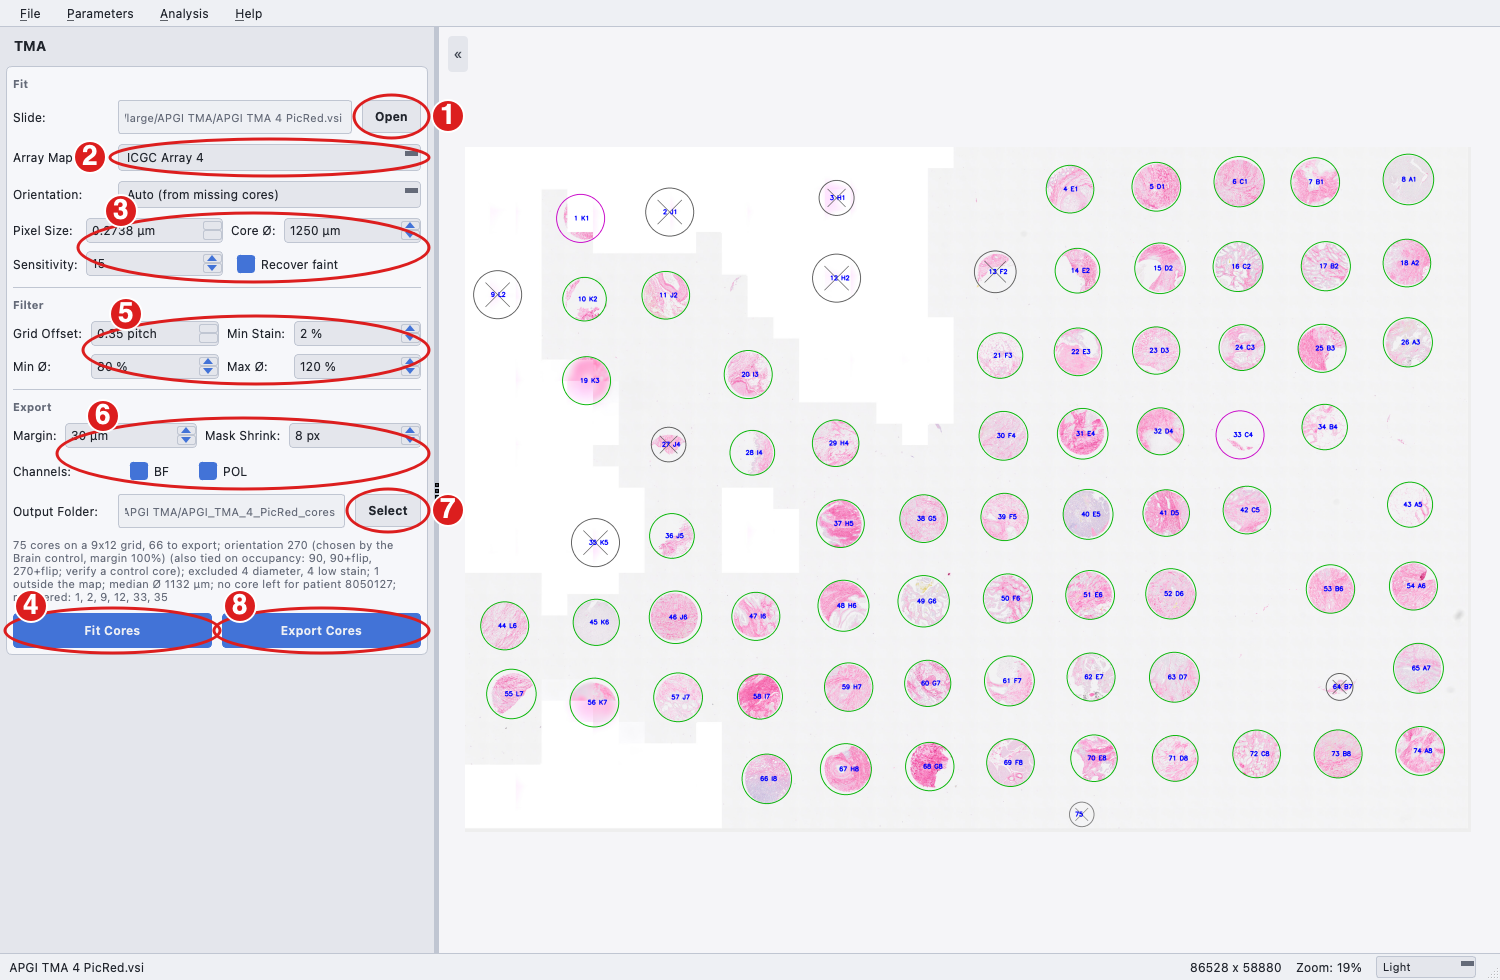
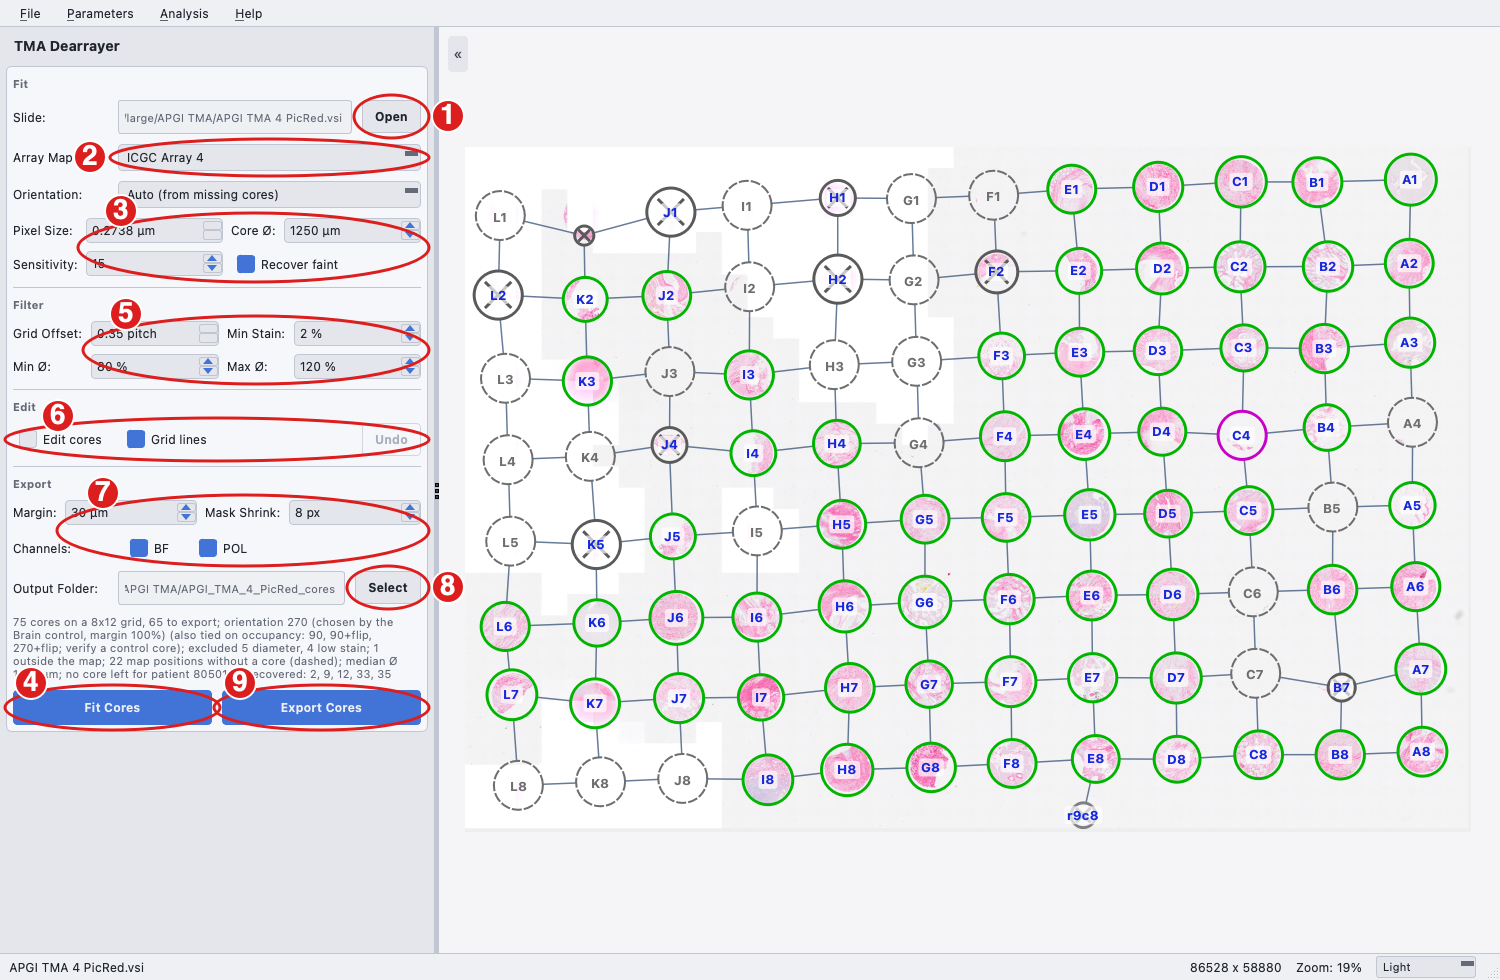
Document the TMA Dearrayer editing workflow and refresh its screenshot

diff --git a/docs/make_screenshots.py b/docs/make_screenshots.py
@@ -236,9 +236,10 @@ def main(argv):
                 (3, union(win, (win.tma_core_diameter_spin, win.tma_sat_spin, win.tma_recover_cb))),
                 (4, rect_of(win, win.tma_fit_btn)),
                 (5, union(win, (win.tma_offset_spin, win.tma_stain_spin, win.tma_dmin_spin, win.tma_dmax_spin))),
-                (6, union(win, (win.tma_margin_spin, win.tma_erode_spin, *win.tma_channel_cbs.values()))),
-                (7, rect_of(win, win.tma_output_btn), "right"),
-                (8, rect_of(win, win.tma_export_btn)),
+                (6, union(win, (win.tma_edit_cb, win.tma_links_cb, win.tma_undo_btn))),
+                (7, union(win, (win.tma_margin_spin, win.tma_erode_spin, *win.tma_channel_cbs.values()))),
+                (8, rect_of(win, win.tma_output_btn), "right"),
+                (9, rect_of(win, win.tma_export_btn)),
             ])
 
 

diff --git a/docs/source/tma.md b/docs/source/tma.md
@@ -1,8 +1,8 @@
-# Tissue Micro-Array (TMA) Preprocessing
+# TMA Dearrayer
 
 Cabana can turn a whole-slide scan of a tissue micro-array into one image and
 one binary mask per core, named by patient, ready for batch analysis. The
-step lives on the **TMA** page of the GUI and in the `cabana-tma` command.
+step lives on the **TMA Dearrayer** page of the GUI and in the `cabana-tma` command.
 
 ## What it does
 
@@ -18,27 +18,34 @@ step lives on the **TMA** page of the GUI and in the `cabana-tma` command.
    bundled). A numbered overlay is shown: green circles will be exported,
    purple were recovered at empty grid positions (also exported), grey with a
    cross were excluded by the quality filters, and grey lie outside the printed
-   map; neither grey kind is exported.
+   map; neither grey kind is exported. Thin lines join cores in neighbouring
+   grid cells, dashed circles mark map positions that hold no core, and
+   control cores carry their tissue name so the orientation can be checked at
+   a glance; the lines reach the dashed circles too, so the lattice stays
+visible across gaps. Circles can be corrected by hand (see
+   [Editing cores by hand](#editing-cores-by-hand)).
 3. **Export cores**: for every core and selected channel a square crop is
    written to `<channel>/<group>/Images/` and a circular mask (white inside the
    fitted circle, shrunk by *Mask Shrink*, black in the corners) to
    `<channel>/<group>/Masks/`. Channels are `BF` and `POL`; groups are
    `Patients`, `Controls` (Liver, Brain, … from the map) and `Unmapped` (cores
    without a map entry, e.g. when no array map is chosen). A `cores.csv`
-   manifest and `overlay.png` are written alongside.
+   manifest, `overlay.png` and `cores_edits.json` (the cores as exported,
+   so hand edits can be reinstated later) are written alongside.
 
 The three stages run independently: fitting can be repeated with new settings
 before exporting, and exporting can be repeated into a different folder.
 
-## The TMA page
+## The TMA Dearrayer page
 
-![TMA page after fitting APGI TMA 4](media/tma.png)
+![TMA Dearrayer page after fitting APGI TMA 4](media/tma.png)
 
 1. **Open** the slide (`.vsi`, or a whole-slide TIFF/PNG, in which case enter the
    pixel size). A preview appears in the viewer.
 2. **Array Map.** Choose the printed ICGC/APGI array (1 to 8) for patient IDs,
    or *None* to name cores by grid position only. Leave **Orientation** on
    *Auto* unless you need to force one (see [Orientation](#orientation)).
+   Changing either after a fit relabels the cores instantly; no refit.
 3. **Fit settings.** *Core Ø* is the nominal core diameter and sets the scale
    of every step; *Sensitivity* is the tissue threshold; *Recover faint* looks
    for pale cores at empty grid positions.
@@ -47,13 +54,16 @@ before exporting, and exporting can be repeated into a different folder.
    summarises the fit and any warnings.
 5. **Filter.** Quality gates applied after fitting; they update the overlay
    instantly without a refit (see [Quality filters](#quality-filters)).
-6. **Export settings.** *Margin* around each circle, *Mask Shrink*, and the
+6. **Edit.** *Edit cores* turns on hand correction of the circles on the
+   overlay, *Grid lines* shows or hides the lattice and *Undo* reverts the
+   last edit (see [Editing cores by hand](#editing-cores-by-hand)).
+7. **Export settings.** *Margin* around each circle, *Mask Shrink*, and the
    channels (BF, POL) to write.
-7. **Output Folder** for the export (defaults to `<slide>_cores` beside the
+8. **Output Folder** for the export (defaults to `<slide>_cores` beside the
    slide).
-8. **Export Cores** writes the images, masks, `cores.csv` and `overlay.png`.
-   When it finishes you are offered to point **Batch Run** at the exported
-   Patients folder of a channel.
+9. **Export Cores** writes the images, masks, `cores.csv`, `overlay.png` and
+   `cores_edits.json`. When it finishes you are offered to point **Batch
+   Run** at the exported Patients folder of a channel.
 
 ## How core fitting works and how to tune it
 
@@ -80,8 +90,14 @@ before exporting, and exporting can be repeated into a different folder.
    radius are therefore rebuilt from the largest tissue piece (split at thin
    attachments if it is itself too large), adding neighbouring pieces nearest
    first only while the circle stays within that size.
-4. **Grid.** Circle centres are snapped to a lattice whose pitch is the
-   median neighbour distance. Circles falling in one cell are merged largest
+4. **Grid.** The slide's rotation is estimated from the median angle between
+   horizontally adjacent cores and removed, so a tilted array (the APGI
+   slides are tilted by up to 3°) does not smear one row into the next.
+   Circle centres are then snapped to a lattice whose pitch and phase come
+   from the well-formed circles only (fill at least 30 %, radius within 20 %
+   of the median), so fragments and debris cannot shift the grid. Debris that
+   is both malformed and off the lattice is kept but does not widen the grid.
+   Circles falling in one cell are merged largest
    first, and a smaller one is only merged if the result stays within 110 % of
    the typical core radius, so a debris speck in the same cell is dropped
    rather than enlarging the core.
@@ -131,6 +147,47 @@ smaller circle; lower Min Ø (for example to 70 %) to keep them.
 CLI: `--max-grid-offset`, `--diameter-range MIN MAX`, `--min-stain`, and
 `--stain-sat` (the saturation threshold, 40, not exposed in the GUI).
 
+## Editing cores by hand
+
+The fit is right on the APGI slides, but a partial core excluded by the
+diameter filter, a circle inflated by a neighbouring fragment, or a pale core
+the recovery pass missed are quicker to fix by hand than by retuning. Tick
+**Edit cores** and work on the overlay:
+
+| Gesture | Effect |
+|---|---|
+| Click a circle | Select it (yellow dashed halo; its colour keeps showing its status) |
+| Drag inside a circle | Move the core |
+| Drag the rim, the yellow handle, or Shift+drag inside | Resize the core |
+| Double-click a circle | Include it if excluded, exclude it if included (overrides the filters) |
+| Double-click empty space or a dashed placeholder | Add a core there (median radius) |
+| Delete / Backspace | Remove the selected (yellow) core |
+| Ctrl+Z, or **Undo** | Revert the last edit |
+| Right-click | Menu with the same actions, and *Let filters decide* to drop an override |
+
+Hovering a core shows its number, map position, patient ID or tissue,
+diameter, fill, stain and filter status. Labels on the overlay give the map
+position and core number (the grid cell when no array map is chosen), and
+control cores their tissue name. Dashed circles mark positions without a
+core: the map positions when an array is matched, otherwise the empty cells of
+the fitted grid.
+The core under the cursor is drawn with a thicker ring, the selected one
+carries a yellow halo.
+Panning (drag on empty space) and zooming keep working while editing. No
+label is ever typed: a moved or added core takes the patient ID of the grid
+cell it lands in, computed from the fitted lattice and the current
+orientation, so the map stays the single source of identities. After each
+edit the core's diameter, grid offset and stain are re-measured, the quality
+filters re-run, the grid lines follow, and the status line counts the
+hand-edited cores. Hand-edited cores carry an orange dot on top of their ring on the overlay
+and `manual = 1` in `cores.csv`; an override is recorded as reason `manual`
+when it excludes a core.
+
+Edits are saved with every export as `cores_edits.json` next to `cores.csv`.
+Fitting the same slide again with that output folder offers to reinstate
+them (on the command line, `--edits FILE`). The file holds the complete set
+of cores as exported, so reinstating replaces the new fit.
+
 ## Output naming
 
 ```
@@ -149,8 +206,11 @@ the class from the last bracket and the replicate from the trailing number.
 printed sector offsets are resolved; the ICGC ID is in `cores.csv`. `cores.csv` records the map label,
 sector, patient ID, ICGC ID, tissue, circle centre and radius (level-0 pixels),
 tissue fill, QC metrics, flag, exclusion reason, export group (`Patients`,
-`Controls` or `Unmapped`), and the orientation used together with the rule
-that decided it (`orientation_method`).
+`Controls` or `Unmapped`), the orientation used together with the rule
+that decided it (`orientation_method`), and whether the core was edited by
+hand (`manual`). Map positions that hold no core are listed too, with flag
+`missing`, their scan cell and the lattice-predicted centre, so the manifest
+covers every position of the printed map.
 
 ## Orientation
 
@@ -177,6 +237,12 @@ disabled until you confirm a control core against the printed map and set the
 orientation explicitly (the CLI exits with an error unless `--orientation` is
 given). Orientation genuinely differs between slides of this set, so never
 assume one value for a batch.
+
+To check an orientation, look at the control cores: they are named on the
+overlay (Liver, Brain, Lung, Placenta, …), and Brain in particular must land
+on a pale, nearly unstained core. Changing **Orientation** relabels the
+fitted cores at once, so cycling through the candidates until the control
+names match the slide takes seconds.
 
 ## Using the export in Cabana
 
@@ -205,6 +271,7 @@ resolution instead of the whole core shrunk to 512 pixels.
 cabana-tma "APGI TMA 1 PicRed.vsi" out/TMA1 --array 1 --slide-name TMA1
 cabana-tma slide.tif out/slide --pixel-size 0.5 --fit-only        # cores.csv + overlay only
 cabana-tma slide.vsi out/x --array 4 --orientation 90+flip --channels BF
+cabana-tma slide.vsi out/x --array 4 --edits out/x/cores_edits.json  # reinstate hand edits
 ```
 
 Run `cabana-tma --help` for all options (core diameter, crop margin, mask
@@ -218,5 +285,9 @@ from cabana import TMAPreprocessor
 pre = TMAPreprocessor("APGI TMA 1 PicRed.vsi", array_number=1, slide_name="TMA1")
 pre.fit()                      # list of Core objects with centre, radius, grid position
 pre.map_to_array()             # orientation, sets map positions; pre.orientation_ties lists ambiguities
-pre.export("out/TMA1", channels=["BF", "POL"])
+pre.missing_positions()        # map positions without a core, with the lattice-predicted centre
+core = pre.add_core(x, y)      # hand edits: add_core, move_core, resize_core, remove_core,
+pre.set_override(core, "include")   # set_override; each re-snaps to the grid and re-filters
+pre.export("out/TMA1", channels=["BF", "POL"])   # also writes cores_edits.json
+pre.load_edits("out/TMA1/cores_edits.json")      # reinstate after a refit
 ```

diff --git a/docs/source/workflow.md b/docs/source/workflow.md
@@ -9,7 +9,7 @@ Once the Cabana GUI is launched, you will see a window split horizontally: the c
 ![Start page](media/start.png)
 
 1. **Menu bar.** All commands live here: **File** (open or reload an image, open a TMA slide, quit), **Parameters** (import, export, restore defaults), **Analysis** (choose which page the control panel shows: **TMA**, **Segmentation**, **Fibre Detection**, **Gap Analysis** or **Batch Run**, shortcuts Ctrl/Cmd+1 to 5) and **Help** (about, documentation, issue tracker, version, licence).
-2. **Open TMA Slide** opens a whole-slide scan on the TMA page.
+2. **Open TMA Slide** opens a whole-slide scan on the TMA Dearrayer page.
 3. **Open Image** loads a single image to tune parameters on; the panel switches to Segmentation automatically. You can also drag an image onto the viewer.
 4. **Import Parameters** loads a saved `Parameters.yml` into the controls.
 
@@ -59,7 +59,7 @@ Once the settings on the three pages are chosen, use **Parameters > Export Param
 1. **Parameter File.** The exported `Parameters.yml`. Review it first, for example to disable segmentation or gap analysis or to raise `Max Size` for large images.
 2. **Input Folder.** The folder of images to quantify (tif, png and jpg are supported).
 3. **Output Folder.** Where the results are written.
-4. **ROI Masks** (optional). A folder of binary masks named like the input images (white = analyse, black = ignore), such as a `BF/Patients/Masks/` or `POL/Patients/Masks/` folder written by the TMA page, restricts every measurement to the masked region. Leave it empty to rely on segmentation alone. The mask folder is a per-run path like the input and output folders; it is not stored in the parameter file, but the folder used is recorded in `version_params.yaml` in the output folder.
+4. **ROI Masks** (optional). A folder of binary masks named like the input images (white = analyse, black = ignore), such as a `BF/Patients/Masks/` or `POL/Patients/Masks/` folder written by the TMA Dearrayer page, restricts every measurement to the masked region. Leave it empty to rely on segmentation alone. The mask folder is a per-run path like the input and output folders; it is not stored in the parameter file, but the folder used is recorded in `version_params.yaml` in the output folder.
 5. **Batch Size.** Images are processed in batches (default 5) so that an interrupted run can be resumed.
 6. **Stats** and **Scores** add per-patient statistics (`QuantificationResults_MEAN_STD_SEM.csv`) and collagen risk scores (`QuantificationResults_SCORES.csv`) to the output; they require the TMA naming scheme.
 7. **Process Batch** starts the run; the button turns into **Cancel** while it runs.
@@ -88,10 +88,10 @@ Examples that all parse correctly:
 K324.vsi - 20x_BF_01Annotation (Tumor)_1.tif
 K324.vsi - 20x_POL_01Annotation (Stroma FNA)_12.tif
 540.vsi - 20x_BF multi-band_01Annotation (Ellipse) (Tumor)_0.tif
-8010718.vsi - TMA4_BF_A3Annotation (Tumor)_2.png          (a core exported by the TMA page)
+8010718.vsi - TMA4_BF_A3Annotation (Tumor)_2.png          (a core exported by the TMA Dearrayer page)
 ```
 
-Cores exported by the TMA page already follow this pattern (see [Output naming](tma.md#output-naming)): the patient ID comes from the array map, the sample type is the map note or `Tumor`, and the ROI number counts the patient's cores on the slide. Images without `.vsi` in their name are grouped by the first word before a space or underscore, so `K324_BF_tumour_1.tif` still gives patient `K324`, image type `BF` and ROI number `1`, but no sample type, because there is no `Annotation (…)` part. The per-patient table lists the image type and sample type of each patient's first image, so keep BF and POL images in separate runs.
+Cores exported by the TMA Dearrayer page already follow this pattern (see [Output naming](tma.md#output-naming)): the patient ID comes from the array map, the sample type is the map note or `Tumor`, and the ROI number counts the patient's cores on the slide. Images without `.vsi` in their name are grouped by the first word before a space or underscore, so `K324_BF_tumour_1.tif` still gives patient `K324`, image type `BF` and ROI number `1`, but no sample type, because there is no `Annotation (…)` part. The per-patient table lists the image type and sample type of each patient's first image, so keep BF and POL images in separate runs.
 
 ## Cabana Outputs
 

diff --git a/docs/source/tma_tutorial.md b/docs/source/tma_tutorial.md
@@ -21,16 +21,24 @@ described in detail on the [TMA preprocessing](tma.md) page.
    chose it, how many cores each filter removed, the median fitted diameter
    and any patient left without a core. Check the overlay: green circles are
    exported, purple were recovered at empty grid positions, grey with a cross
-   were excluded by the filters, plain grey lie outside the printed map.
-   - If the status says the orientation is **unresolved**, find a control
-     core (for example Brain, which is nearly unstained) on the overlay, work
-     out which orientation puts it in the right map position, choose it under
-     **Orientation** and click **Fit Cores** again. Export is disabled until
-     the orientation is resolved.
+   were excluded by the filters, plain grey lie outside the printed map, and
+   dashed circles mark map positions that hold no core. Each core is
+   labelled with its map position and number; control cores also show their
+   tissue, and hovering a core gives its patient ID and measurements.
+   - If the status says the orientation is **unresolved**, look at the
+     control cores (for example Brain, which is nearly unstained) and switch
+     **Orientation** until their names land on the right tissue; the labels
+     update instantly, no refit. Export is disabled until the orientation is
+     resolved.
    - If the median fitted diameter differs from **Core Ø** by more than 10 %
      the status line says so; set Core Ø to the reported value and refit.
    - Torn or partial cores fit a smaller circle; lower **Min Ø** (for example
      70 %) to keep them. Filter changes apply instantly without a refit.
+   - For the odd circle the fit got wrong, tick **Edit cores**: drag a circle
+     to move it, drag its rim to resize it, double-click it to include or
+     exclude it, double-click a dashed circle to add a core there. The core
+     takes the patient ID of the cell it lands in (see
+     [Editing cores by hand](tma.md#editing-cores-by-hand)).
 5. Check the **Output Folder** (defaults to `<slide>_cores` next to the slide),
    tick the **Channels** to export and click **Export Cores**. A 20x slide
    with 80 cores exports in one to two minutes. The dialog at the end offers
@@ -40,8 +48,9 @@ The export folder now looks like this:
 
 ```
 APGI_TMA_4_PicRed_cores/
-  cores.csv               one row per core: position, IDs, QC metrics, flag, group
+  cores.csv               one row per core and per map position without a core: position, IDs, QC metrics, flag, group
   overlay.png             the annotated overlay
+  cores_edits.json        the cores as exported; a later refit offers to reinstate hand edits from it
   BF/
     Patients/  Images/    8010718.vsi - TMA4_BF_A3Annotation (Tumor)_1.png …
                Masks/     8010718.vsi - TMA4_BF_A3Annotation (Tumor)_1.png … (white disc = analyse)

diff --git a/docs/source/faqs.md b/docs/source/faqs.md
@@ -16,7 +16,7 @@ Images are processed in batches (5 by default, adjustable on the Batch Run page)
 If the program crashes before finishing, it can be restarted and will resume from the last successfully processed batch. Cabana automatically creates a checkpoint file to support this recovery.
 
 **6. How should I name my images for the Stats and Scores outputs?**  
-Follow the QuPath export pattern `<patient>.vsi - <anything>_<BF|POL>_<anything>Annotation (<sample type>)_<ROI number>`, for example `K324.vsi - 20x_BF_01Annotation (Tumor)_1.tif`. The patient ID is read from before `.vsi`, the image type from `BF`/`POL`, the sample type from the last bracket and the ROI number from the end. Cores exported by the TMA page are already named this way. See [Image naming for per-patient statistics](workflow.md#image-naming-for-per-patient-statistics).
+Follow the QuPath export pattern `<patient>.vsi - <anything>_<BF|POL>_<anything>Annotation (<sample type>)_<ROI number>`, for example `K324.vsi - 20x_BF_01Annotation (Tumor)_1.tif`. The patient ID is read from before `.vsi`, the image type from `BF`/`POL`, the sample type from the last bracket and the ROI number from the end. Cores exported by the TMA Dearrayer page are already named this way. See [Image naming for per-patient statistics](workflow.md#image-naming-for-per-patient-statistics).
 
 **7. Does Cabana use my GPU?**  
 The segmentation network runs on an NVIDIA GPU when CUDA is available, on the Apple GPU (MPS) on Apple silicon Macs, and otherwise on the CPU, which is much slower for large images. Set the environment variable `CABANA_DEVICE` to `cpu`, `cuda` or `mps` to override the choice.
